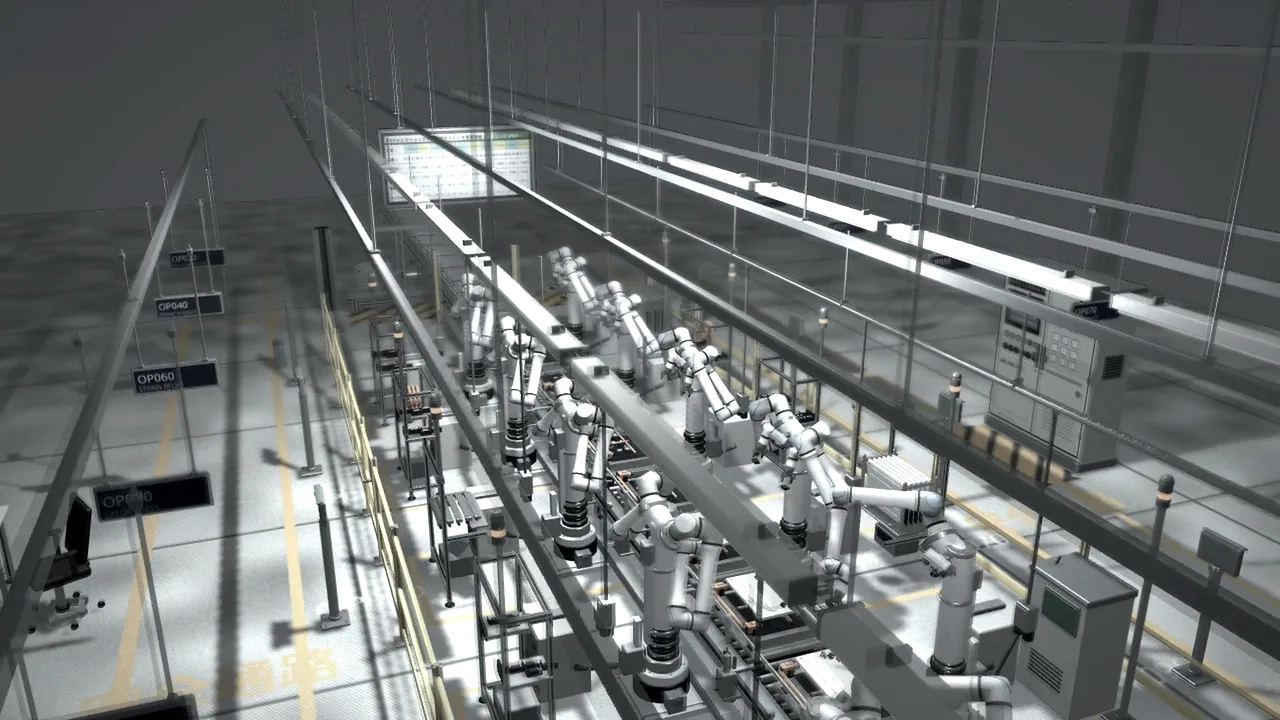
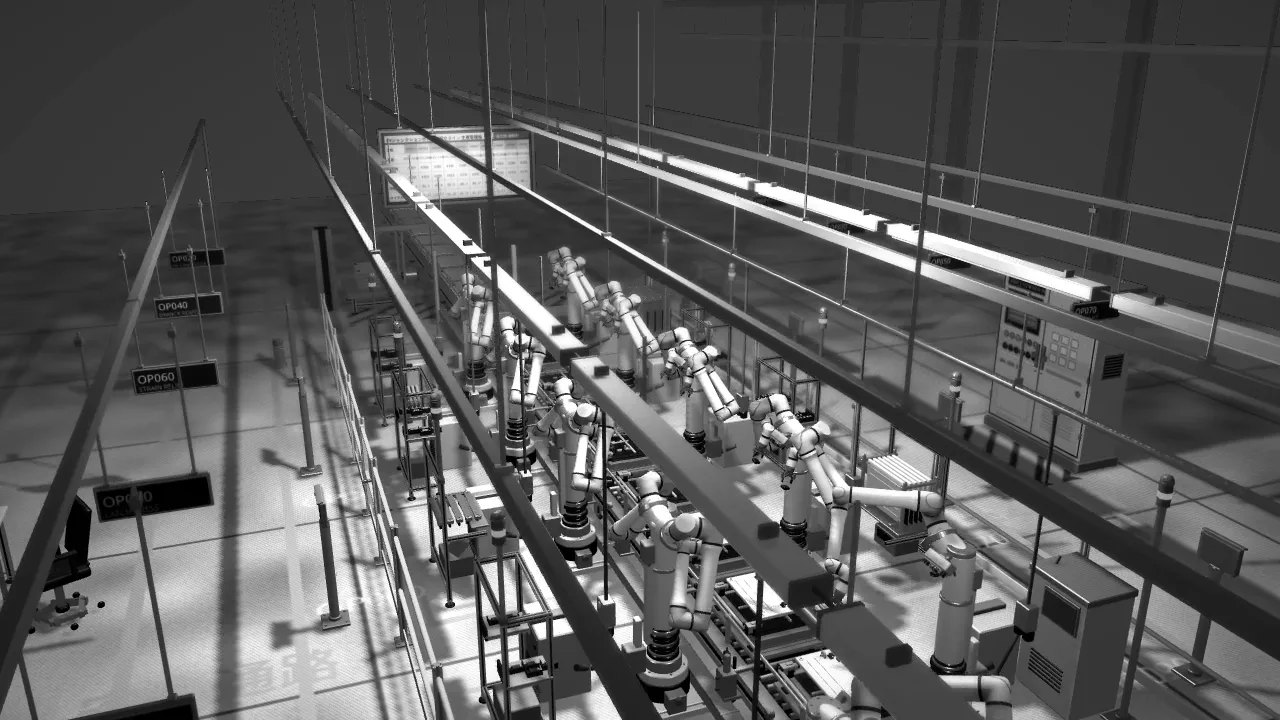
Restore the original UR15 poster

diff --git a/index.html b/index.html
@@ -2001,7 +2001,7 @@ SPDX-License-Identifier: BSD-3-Clause
                 playsinline
                 preload="metadata"
                 poster="/assets/ur15-production-line-concept-poster.webp"
-                aria-label="10体の双腕UR15セルが、インデックス搬送で停止するパレット上でEVバッテリー用ジャンクションボックスを組み立てる、フォトリアル調のカラーコンセプト映像"
+                aria-label="10体の双腕UR15セルが、インデックス搬送で止まるパレット上でEVバッテリー用ジャンクションボックスを組み立てる白黒のコンセプト映像"
               >
                 <source src="/assets/ur15-production-line-concept.mp4" type="video/mp4" />
                 <a href="/assets/ur15-production-line-concept.mp4">UR15 生産ラインのコンセプト映像を開く</a>

diff --git a/en/index.html b/en/index.html
@@ -2001,7 +2001,7 @@ SPDX-License-Identifier: BSD-3-Clause
                 playsinline
                 preload="metadata"
                 poster="/assets/ur15-production-line-concept-poster.webp"
-                aria-label="Photorealistic color concept film of ten dual-arm UR15 cells assembling an EV battery junction box on pallets held by an indexed conveyor"
+                aria-label="Black-and-white concept film of ten dual-arm UR15 cells assembling an EV battery junction box on pallets held by an indexed conveyor"
               >
                 <source src="/assets/ur15-production-line-concept.mp4" type="video/mp4" />
                 <a href="/assets/ur15-production-line-concept.mp4">Open the UR15 production-line concept film</a>
